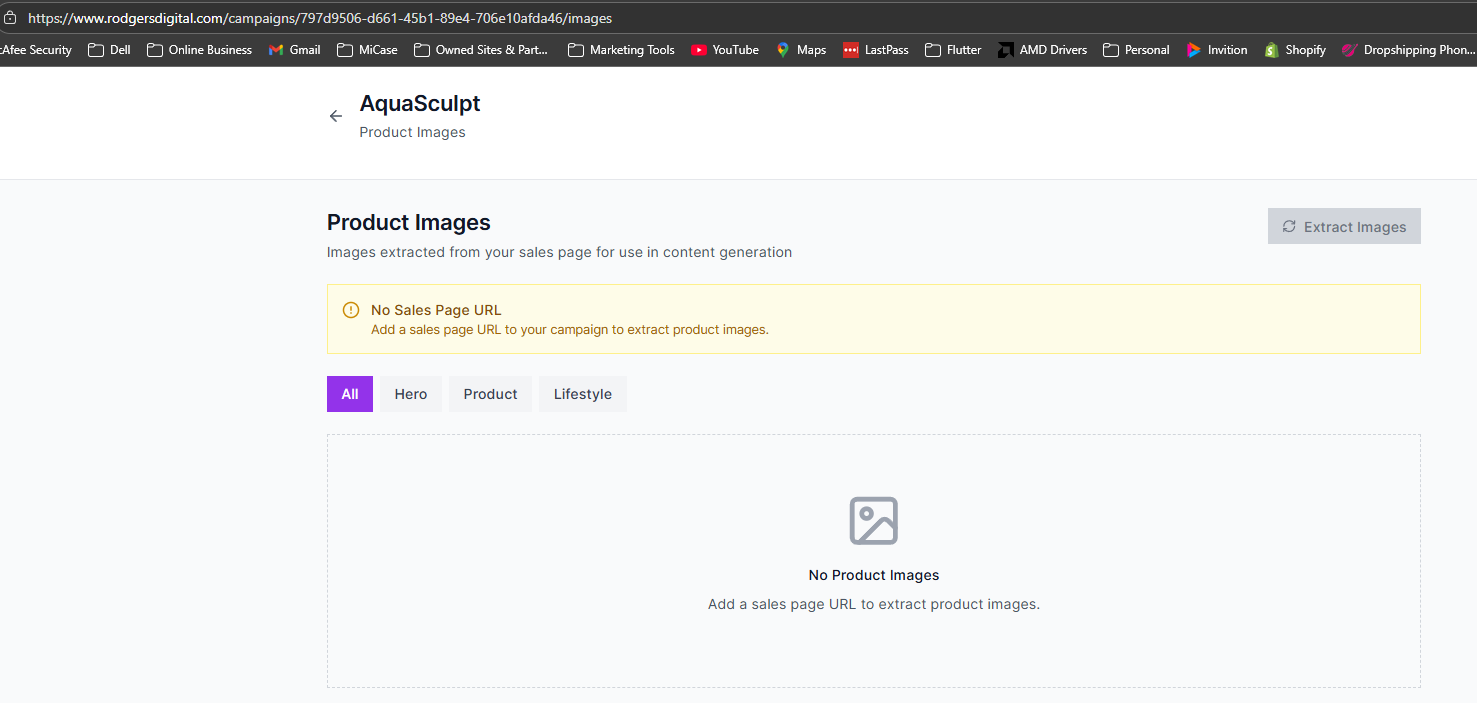
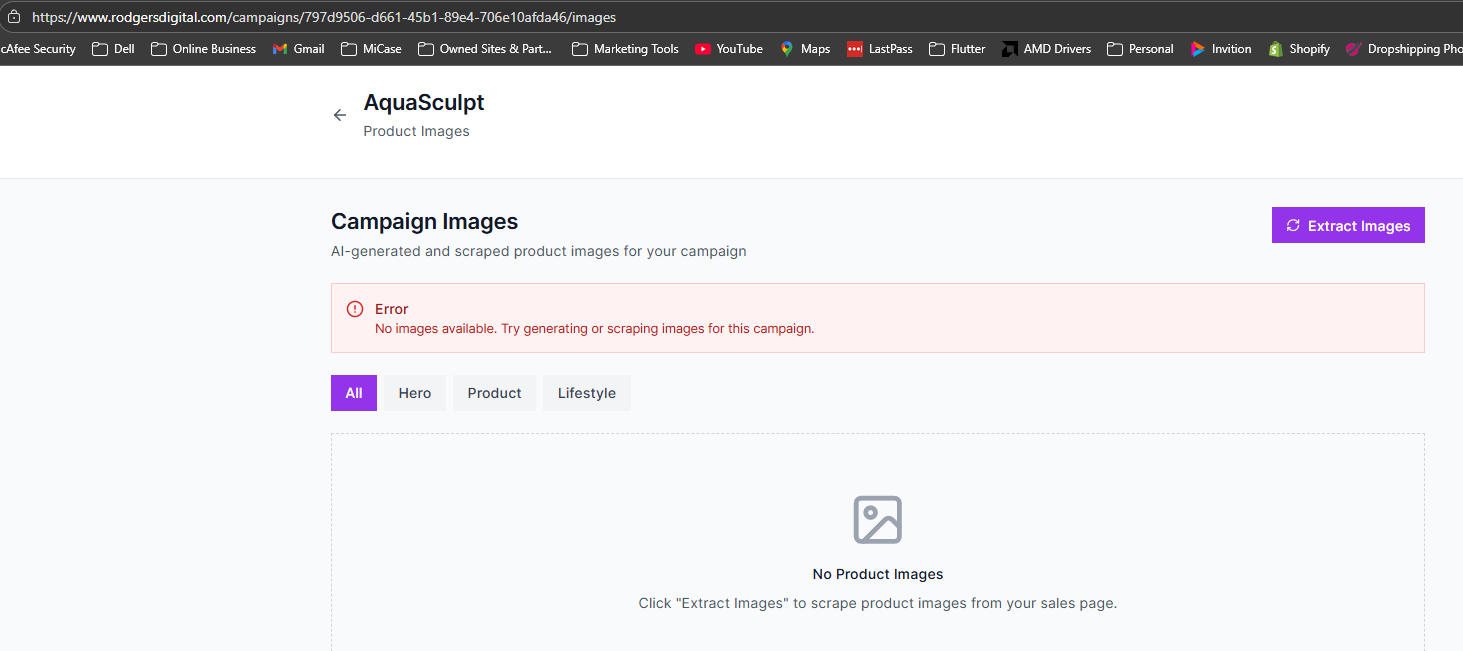
fix: Use correct API endpoint for generated images
- Changed from getContentList() to getGeneratedContent()
- Added support for multiple response format structures
- Added console logging for debugging
- Handles content_body, body, and generated_content.image_url fields
- This fixes the 404 error and allows generated images to display

🤖 Generated with [Claude Code](https://claude.com/claude-code)

diff --git a/src/components/campaigns/ProductImagesTab.tsx b/src/components/campaigns/ProductImagesTab.tsx
@@ -55,13 +55,26 @@ export default function ProductImagesTab({ campaignId, salesPageUrl }: ProductIm
 
       // Load generated images (handle failure gracefully)
       try {
-        const generatedContentResponse = await api.getContentList(campaignId, false);
+        const generatedContentResponse = await api.getGeneratedContent(campaignId);
+        console.log('Generated content response:', generatedContentResponse);
+
         if (generatedContentResponse) {
-          const generatedImages = (generatedContentResponse.items || [])
-            .filter((item: any) => item.content_type === 'image' && (item.body || item.generated_content?.image_url))
+          // Handle different response formats
+          let contentItems = [];
+
+          if (Array.isArray(generatedContentResponse)) {
+            contentItems = generatedContentResponse;
+          } else if (generatedContentResponse.content && Array.isArray(generatedContentResponse.content)) {
+            contentItems = generatedContentResponse.content;
+          } else if (generatedContentResponse.data?.content && Array.isArray(generatedContentResponse.data.content)) {
+            contentItems = generatedContentResponse.data.content;
+          }
+
+          const generatedImages = contentItems
+            .filter((item: any) => item.content_type === 'image' && (item.content_body || item.body || item.generated_content?.image_url))
             .map((item: any) => ({
-              id: item.id,
-              cdn_url: item.body || item.generated_content?.image_url,
+              id: item.id || item.content_id,
+              cdn_url: item.content_body || item.body || item.generated_content?.image_url,
               width: 1024, // Default dimensions for generated images
               height: 1024,
               file_size: 0, // Unknown for generated images
@@ -71,11 +84,12 @@ export default function ProductImagesTab({ campaignId, salesPageUrl }: ProductIm
               is_product: true,
               is_lifestyle: false,
               times_used: 0,
-              alt_text: item.title || 'AI-generated marketing image',
+              alt_text: item.content_title || item.title || 'AI-generated marketing image',
               is_generated: true // Flag to identify generated vs scraped
             }));
 
           allImages = [...allImages, ...generatedImages];
+          console.log('Mapped generated images:', generatedImages.length);
         }
       } catch (genErr: any) {
         console.warn('Failed to load generated images:', genErr);
